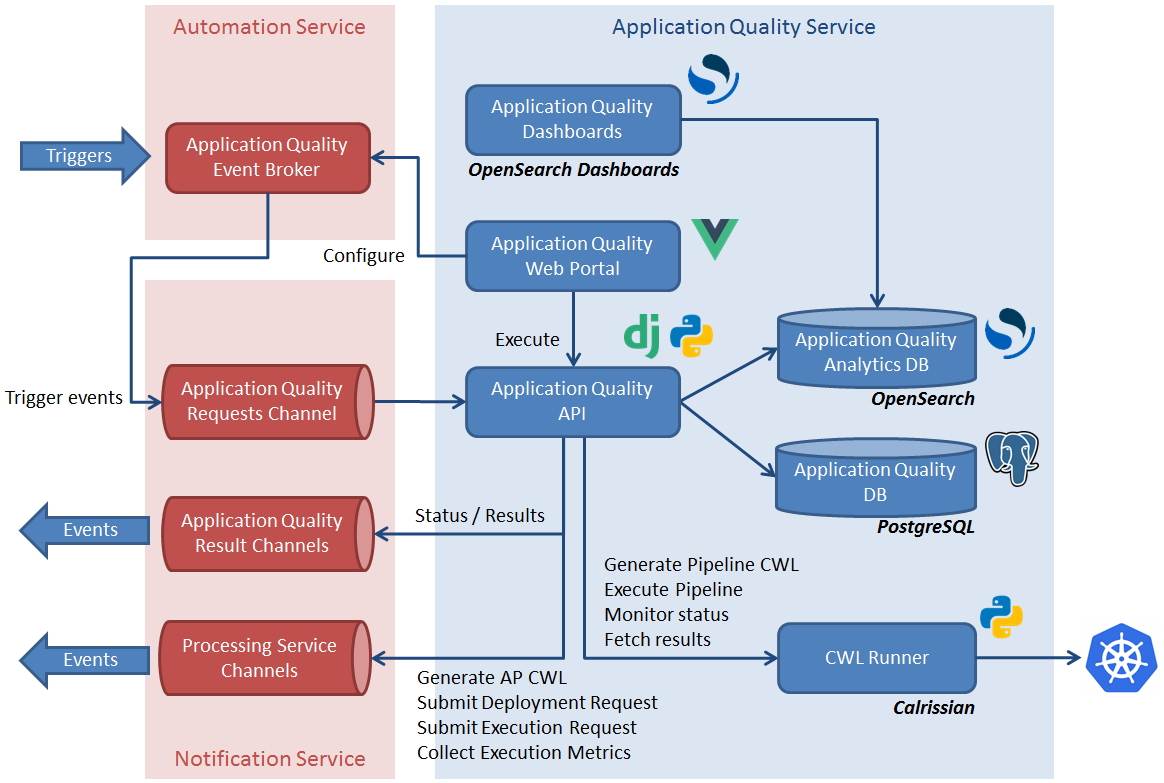
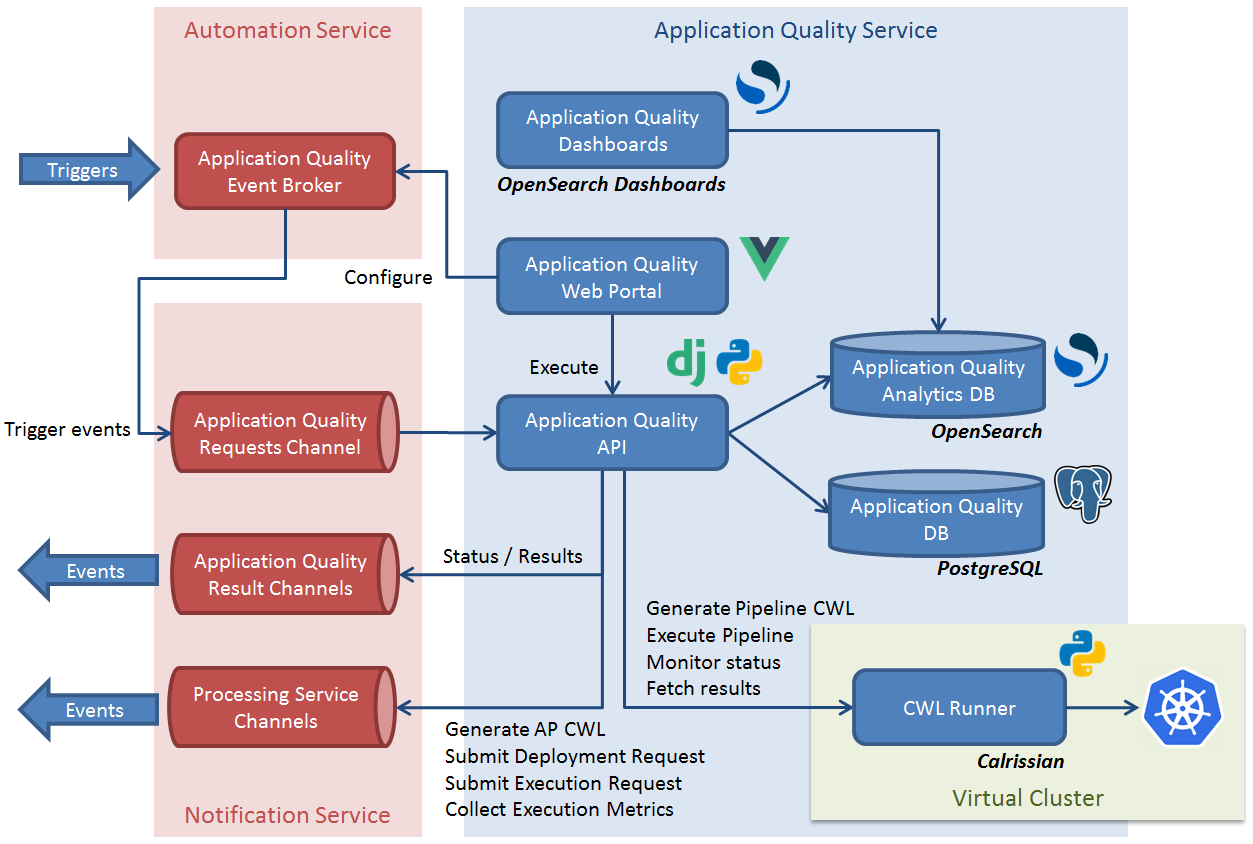
Updated and extended the Architecture description

Changed region(s): [[0.0, 0.0, 1.0, 1.0], [0.1237, 0.0, 0.3402, 0.0613], [0.6804, 0.3678, 0.7113, 0.3985]]

diff --git a/docs/design/architecture.md b/docs/design/architecture.md
@@ -13,13 +13,13 @@ The Building Block includes the following components:
   - The definition of the analysis pipelines.
   - The pipeline execution requests (triggers)
   - The information collected during the pipeline executions, including the generated analysis reports.
-- The *Application Quality Web Portal* (front-end) allows the users to discover and manage (register/create, edit, delete) analysis tools and pipelines, execute these pipelines and inspect the reports.
-- The *Application Quality API* is the back-end service responsible for serving the data to the Web Portal, for communicating with the databases, and for orchestrating the execution of the pipelines. 
+- The *Application Quality Web Portal* (front-end) allows the users to discover the integrated analysis tools, to discover and manage (create, edit, delete) analysis pipelines, execute these pipelines and inspect the reports.
+- The *Application Quality API* is the back-end service responsible for serving the data to the Web Portal and to client applications, for communicating with the databases, and for orchestrating the execution of the pipelines. 
 - The *Application Quality Analytics Database* stores the pipeline executions and the generated reports in a document (JSON) database. This is implemented using the [OpenSearch](https://opensearch.org/) software product.
 - The *Application Quality Dashboards* is a web application that allows displaying the executions and reports in customisable dashboards and visualisation components. [OpenSearch Dashboards](https://opensearch.org/docs/latest/dashboards/) will be used to implement this component.
-- The *CWL Runner* runs and manages the pipeline life-cycle in the Kubernetes cluster. The [Calrissian](https://duke-gcb.github.io/calrissian) software product is selected to implement this component.
+- The *CWL Runner* runs and manages the pipeline life-cycle in the Kubernetes cluster. The [Calrissian](https://duke-gcb.github.io/calrissian) software product and the [PyCalrissian](https://github.com/Terradue/pycalrissian) helper library are used to implement this component.
 
-The Building Block also relies on the Notification Service and the Automation Service for providing application analysis automation.
+The Web-portal and the backend API may be used to execute pipelines on-demand however the Building Block relies on the Notification Service and the Automation Service for providing application analysis automation.
 
 - In the *Notification Service*, communication channels are used as follows:
   - A *Requests* channel is used to receive analysis (i.e. pipeline execution) requests. These requests may be issued by other components in the platform or generated automatically by the *Automation Service*.
@@ -34,7 +34,7 @@ The API (back-end) component has the following main tasks:
   1. In order to perform the performance analysis, it executes applications (processing workflows) in a test environment and collects the execution metrics (execution times, resources consumed, etc.) Note: This may be done by deploying and executing the applications using the [EOEPCA ADES](https://eoepca.readthedocs.io/projects/deploy/en/stable/eoepca/ades-zoo/) provided it allows targeting dedicated worker nodes and provided it gives access to the execution metrics.
   1. It sends notifications through dedicated channels to inform the requesters about the progress. If the Notification Service allows creating channels on-the-fly with hierarchical subjects, a new channel will be created for each running pipeline.
 
-Each individual tool that may be integrated in the Development Best Practice and Application Quality pipelines will be containerized and specified in CWL "CommandLineTool" (CLT) resources. They will share a common subset of input and output parameters. Additional inputs may be used to specifically control the behaviour of each tool.
+Each individual tool that may be integrated in the Development Best Practice and Application Quality pipelines is containerized and specified in CWL "CommandLineTool" (CLT) resources. Tool-specific input parameters may be exposed and used to control their behaviour. The integrated analysis tools are described in the [Analysis Tools](../usage/analysis-tools/) section.
 
 >**Note**: The static architecture diagram above does not show the interactions that are taking place between the tools integrated in the Application Quality pipelines and external services. Indeed, pipeline steps may need to communicate with external services to perform their tasks. For example, the very first step of a pipeline retrieves the application code and artifacts from a git repository. This is performed by a pipeline job, not the building block itself. Similarly, the SonarQube analysis tool has a client / server architecture: the SonarQube client may be integrated in an analysis pipeline but the actual analysis is performed by the SonarQube server, running independently.
 
@@ -42,16 +42,39 @@ Each individual tool that may be integrated in the Development Best Practice and
 
 The figure below depicts the structure of an analysis pipeline and its interations with the building block components and external services.
 
-An analysis pipeline (defined as a CWL workflow) always starts with a *Git Clone* step which fetches (stage-in) the application files from a git repository and makes them available to the analysis tools that are executed next. The pipeline then executes one or more anlaysis tools also specified as CWL workflows.
+An analysis pipeline (defined as a CWL workflow) usually starts with a *Git Clone* step which fetches the application files from a git repository and makes them available to the analysis tools that are executed next. The pipeline then executes one or more anlaysis tools also specified as CWL workflows.
 
-The smallest tool workflow includes two steps (see *Pylint* on the figure): the first step executes the tool and thus performs the actual analysis whereas the second step sends the analysis report(s) to the service backend for persitent storage.
+A typical tool workflow includes three or more steps (see *Pylint* and *Papermill* on the figure): the first step applies a filter on the input files to only keep the files to be analysed. In the example, *Pylint* can select one or more Python scripts (`.*\.py`) and Papermill can select one or more Jupyter Notebooks (`.*\.ipynb`). The next step executes the tool itself and thus performs the actual analysis on the filtered files. The last step sends the analysis report(s) to the service backend for persitent storage.
 
 More complex tools may require additional steps. *SonarQube*, for example performs the analysis and stores the results in a remote server. The analysis workflow thus integrates the SonarQube client that communicates with the server for performing the analysis. Results of this analysis must then be retrieved from the server before being saved using the building block backend.
 
-The static analysis tools are independent from each other: the failure of one tool does not prevent executing the other tools. They are thus directly linked to the initial *Git Clone* step and may be executed simultaneously if the cloud resources permit it.
+The analysis tools are independent from each other: the failure of one tool does not prevent executing the other tools. They are thus directly linked to the initial *Git Clone* step, if present, and may be executed simultaneously if the cloud resources permit it.
 
 The tool-specific workfllows are pre-defined in the service. Adding more tools is possible but requires creating Docker images and editing the service database manually.
 
-The current (2024 Q4) release of the Application Quality Building Block proposes pre-defined analysis pipelines that may be executed by any authenticated user. Future releases will integrate a pipeline editor that allows users creating and configuring user-defined (private) pipelines.
+The current release of the Application Quality Building Block (2025 Q1, 2.0.0-rc1), proposes pre-defined analysis pipelines that may be executed by any authenticated user (see [Analysis Tools](../usage/analysis-tools/)). It also integrates a pipeline editor that allows users creating and configuring user-defined (private) pipelines (see [User Manual](../usage/user-manual/#user-defined-pipelines)).
 
 ![Static Analysis Pipeline Execution](../img/static-analysis-pipeline-execution.png)
+
+## Sandboxed Environments
+
+Analysis pipelines may be executed in sandboxed environments, implemented using the [vCluster](https://www.vcluster.com/) technology. This is a decision to be taken at deployment time.
+
+In the current (2025 Q1, 2.0.0-rc1) implementation, the use of a vCluster is enabled using the following Helm chart values:
+
+```yaml
+vclusters:
+  enabled: true
+  # Templated value
+  name: "{{ .Release.Namespace }}-vcluster"
+  # Templated value
+  namespace: "{{ .Release.Namespace }}-vcluster"
+```
+
+When this option is enabled, the Application Quality backend service automatically creates and connects to a vCluster with the given name and namespace upon startup. If a vCluster with the given name already exists, it is re-used.
+
+A "bridge" is created between the vCluster and the backend service to allow pipeline steps to communicate with it, for example for storing the analysis reports.
+
+When the execution of an analysis pipeline is requested, the backend service instructs the CWL pipeline helper library (PyCalrissian) to instanciate and run Calrissian (and thus the `cwl-runner`), in the vCluster namespace.
+
+The current implementation thus uses a single vCluster for executing all the analysis pipelines, regardless of who has requested their execution and how. A possible evolution will be to communicate with the [Workspace BB](https://eoepca.readthedocs.io/projects/workspace) to obtain user-private workspaces at pipeline execution time.
